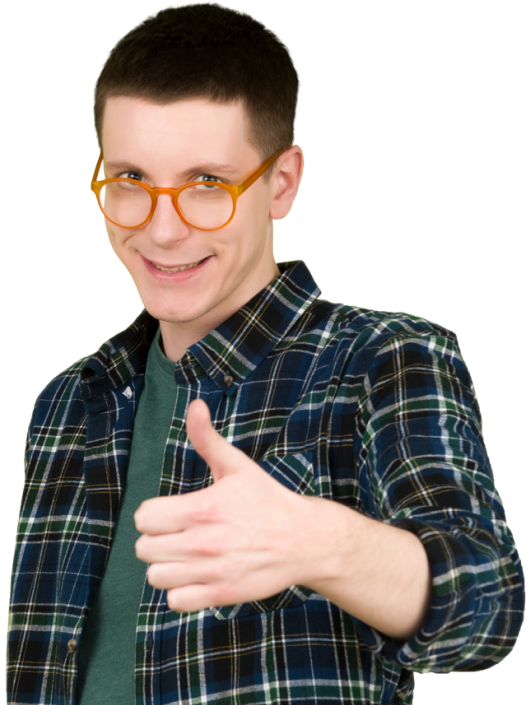
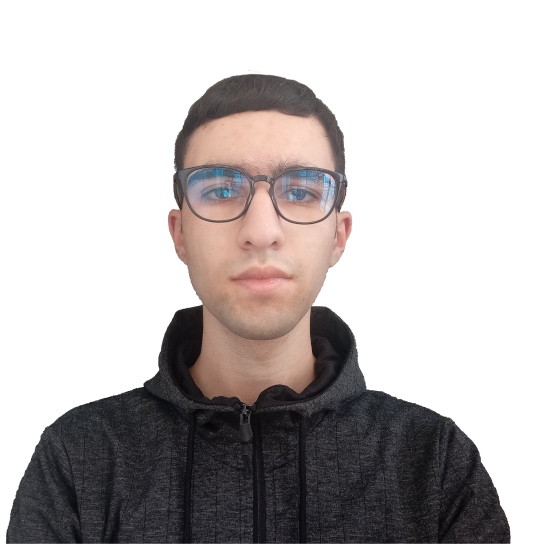
add my photo

diff --git a/public/assets/css/tailwind.min.css b/public/assets/css/tailwind.min.css
@@ -1,3 +1,3 @@
 @font-face{font-family:Inter;font-style:normal;font-weight:400;font-display:swap;src:url(../fonts/inter-v8-latin-regular.eot);src:local(""),url(../fonts/inter-v8-latin-regular.eot?#iefix) format("embedded-opentype"),url(../fonts/inter-v8-latin-regular.woff2) format("woff2"),url(../fonts/inter-v8-latin-regular.woff) format("woff"),url(../fonts/inter-v8-latin-regular.ttf) format("truetype"),url(../fonts/inter-v8-latin-regular.svg#Inter) format("svg")}@font-face{font-family:Inter;font-style:normal;font-weight:700;font-display:swap;src:url(../fonts/inter-v8-latin-700.eot);src:local(""),url(../fonts/inter-v8-latin-700.eot?#iefix) format("embedded-opentype"),url(../fonts/inter-v8-latin-700.woff2) format("woff2"),url(../fonts/inter-v8-latin-700.woff) format("woff"),url(../fonts/inter-v8-latin-700.ttf) format("truetype"),url(../fonts/inter-v8-latin-700.svg#Inter) format("svg")}
 
-/*! tailwindcss v3.0.24 | MIT License | https://tailwindcss.com*/*,:after,:before{box-sizing:border-box;border:0 solid #e5e7eb}:after,:before{--tw-content:""}html{line-height:1.5;-webkit-text-size-adjust:100%;-moz-tab-size:4;-o-tab-size:4;tab-size:4;font-family:ui-sans-serif,system-ui,-apple-system,BlinkMacSystemFont,Segoe UI,Roboto,Helvetica Neue,Arial,Noto Sans,sans-serif,Apple Color Emoji,Segoe UI Emoji,Segoe UI Symbol,Noto Color Emoji}body{margin:0;line-height:inherit}hr{height:0;color:inherit;border-top-width:1px}abbr:where([title]){-webkit-text-decoration:underline dotted;text-decoration:underline dotted}h1,h2,h3,h4,h5,h6{font-size:inherit;font-weight:inherit}a{color:inherit;text-decoration:inherit}b,strong{font-weight:bolder}code,kbd,pre,samp{font-family:ui-monospace,SFMono-Regular,Menlo,Monaco,Consolas,Liberation Mono,Courier New,monospace;font-size:1em}small{font-size:80%}sub,sup{font-size:75%;line-height:0;position:relative;vertical-align:initial}sub{bottom:-.25em}sup{top:-.5em}table{text-indent:0;border-color:inherit;border-collapse:collapse}button,input,optgroup,select,textarea{font-family:inherit;font-size:100%;line-height:inherit;color:inherit;margin:0;padding:0}button,select{text-transform:none}[type=button],[type=reset],[type=submit],button{-webkit-appearance:button;background-color:initial;background-image:none}:-moz-focusring{outline:auto}:-moz-ui-invalid{box-shadow:none}progress{vertical-align:initial}::-webkit-inner-spin-button,::-webkit-outer-spin-button{height:auto}[type=search]{-webkit-appearance:textfield;outline-offset:-2px}::-webkit-search-decoration{-webkit-appearance:none}::-webkit-file-upload-button{-webkit-appearance:button;font:inherit}summary{display:list-item}blockquote,dd,dl,figure,h1,h2,h3,h4,h5,h6,hr,p,pre{margin:0}fieldset{margin:0}fieldset,legend{padding:0}menu,ol,ul{list-style:none;margin:0;padding:0}textarea{resize:vertical}input::-moz-placeholder,textarea::-moz-placeholder{opacity:1;color:#9ca3af}input:-ms-input-placeholder,textarea:-ms-input-placeholder{opacity:1;color:#9ca3af}input::placeholder,textarea::placeholder{opacity:1;color:#9ca3af}[role=button],button{cursor:pointer}:disabled{cursor:default}audio,canvas,embed,iframe,img,object,svg,video{display:block;vertical-align:middle}img,video{max-width:100%;height:auto}[hidden]{display:none}*,:after,:before{--tw-translate-x:0;--tw-translate-y:0;--tw-rotate:0;--tw-skew-x:0;--tw-skew-y:0;--tw-scale-x:1;--tw-scale-y:1;--tw-pan-x: ;--tw-pan-y: ;--tw-pinch-zoom: ;--tw-scroll-snap-strictness:proximity;--tw-ordinal: ;--tw-slashed-zero: ;--tw-numeric-figure: ;--tw-numeric-spacing: ;--tw-numeric-fraction: ;--tw-ring-inset: ;--tw-ring-offset-width:0px;--tw-ring-offset-color:#fff;--tw-ring-color:#3b82f680;--tw-ring-offset-shadow:0 0 #0000;--tw-ring-shadow:0 0 #0000;--tw-shadow:0 0 #0000;--tw-shadow-colored:0 0 #0000;--tw-blur: ;--tw-brightness: ;--tw-contrast: ;--tw-grayscale: ;--tw-hue-rotate: ;--tw-invert: ;--tw-saturate: ;--tw-sepia: ;--tw-drop-shadow: ;--tw-backdrop-blur: ;--tw-backdrop-brightness: ;--tw-backdrop-contrast: ;--tw-backdrop-grayscale: ;--tw-backdrop-hue-rotate: ;--tw-backdrop-invert: ;--tw-backdrop-opacity: ;--tw-backdrop-saturate: ;--tw-backdrop-sepia: }.absolute{position:absolute}.relative{position:relative}.top-0{top:0}.left-0{left:0}.-top-16{top:-4rem}.left-1\/2{left:50%}.top-1\/2{top:50%}.bottom-0{bottom:0}.-left-64{left:-16rem}.-bottom-32{bottom:-8rem}.right-0{right:0}.bottom-\[10\%\]{bottom:10%}.left-8{left:2rem}.bottom-\[35\%\]{bottom:35%}.right-8{right:2rem}.-top-8{top:-2rem}.-left-16{left:-4rem}.top-28{top:7rem}.-bottom-8{bottom:-2rem}.bottom-16{bottom:4rem}.z-\[-1\]{z-index:-1}.z-0{z-index:0}.z-10{z-index:10}.z-30{z-index:30}.order-1{order:1}.order-3{order:3}.order-2{order:2}.mx-auto{margin-left:auto;margin-right:auto}.ml-6{margin-left:1.5rem}.mt-5{margin-top:1.25rem}.mr-6{margin-right:1.5rem}.mt-8{margin-top:2rem}.mt-16{margin-top:4rem}.mt-6{margin-top:1.5rem}.mt-12{margin-top:3rem}.mt-32{margin-top:8rem}.mt-1{margin-top:.25rem}.mt-4{margin-top:1rem}.mb-0{margin-bottom:0}.mt-2{margin-top:.5rem}.mt-3{margin-top:.75rem}.block{display:block}.inline{display:inline}.flex{display:flex}.grid{display:grid}.hidden{display:none}.h-\[32rem\]{height:32rem}.h-10{height:2.5rem}.h-0\.5{height:.125rem}.h-0{height:0}.h-\[40rem\]{height:40rem}.h-80{height:20rem}.h-\[22rem\]{height:22rem}.h-14{height:3.5rem}.h-auto{height:auto}.h-\[28rem\]{height:28rem}.h-4\/5{height:80%}.h-full{height:100%}.w-full{width:100%}.w-10{width:2.5rem}.w-5{width:1.25rem}.w-6{width:1.5rem}.w-44{width:11rem}.w-\[40rem\]{width:40rem}.w-80{width:20rem}.w-fit{width:-webkit-fit-content;width:-moz-fit-content;width:fit-content}.w-56{width:14rem}.w-14{width:3.5rem}.w-28{width:7rem}.w-\[90\%\]{width:90%}.max-w-\[78rem\]{max-width:78rem}.max-w-sm{max-width:24rem}.max-w-lg{max-width:32rem}.max-w-\[30rem\]{max-width:30rem}.max-w-\[28rem\],.max-w-md{max-width:28rem}.max-w-5xl{max-width:64rem}.-translate-x-1\/2{--tw-translate-x:-50%}.-translate-x-1\/2,.-translate-y-1\/2{transform:translate(var(--tw-translate-x),var(--tw-translate-y)) rotate(var(--tw-rotate)) skewX(var(--tw-skew-x)) skewY(var(--tw-skew-y)) scaleX(var(--tw-scale-x)) scaleY(var(--tw-scale-y))}.-translate-y-1\/2{--tw-translate-y:-50%}.transform{transform:translate(var(--tw-translate-x),var(--tw-translate-y)) rotate(var(--tw-rotate)) skewX(var(--tw-skew-x)) skewY(var(--tw-skew-y)) scaleX(var(--tw-scale-x)) scaleY(var(--tw-scale-y))}.cursor-pointer{cursor:pointer}.resize-none{resize:none}.grid-cols-1{grid-template-columns:repeat(1,minmax(0,1fr))}.grid-rows-3{grid-template-rows:repeat(3,minmax(0,1fr))}.flex-col{flex-direction:column}.flex-wrap{flex-wrap:wrap}.items-center{align-items:center}.justify-start{justify-content:flex-start}.justify-center{justify-content:center}.justify-between{justify-content:space-between}.justify-around{justify-content:space-around}.space-y-16>:not([hidden])~:not([hidden]){--tw-space-y-reverse:0;margin-top:calc(4rem*(1 - var(--tw-space-y-reverse)));margin-bottom:calc(4rem*var(--tw-space-y-reverse))}.space-y-6>:not([hidden])~:not([hidden]){--tw-space-y-reverse:0;margin-top:calc(1.5rem*(1 - var(--tw-space-y-reverse)));margin-bottom:calc(1.5rem*var(--tw-space-y-reverse))}.space-x-6>:not([hidden])~:not([hidden]){--tw-space-x-reverse:0;margin-right:calc(1.5rem*var(--tw-space-x-reverse));margin-left:calc(1.5rem*(1 - var(--tw-space-x-reverse)))}.space-x-16>:not([hidden])~:not([hidden]){--tw-space-x-reverse:0;margin-right:calc(4rem*var(--tw-space-x-reverse));margin-left:calc(4rem*(1 - var(--tw-space-x-reverse)))}.space-y-4>:not([hidden])~:not([hidden]){--tw-space-y-reverse:0;margin-top:calc(1rem*(1 - var(--tw-space-y-reverse)));margin-bottom:calc(1rem*var(--tw-space-y-reverse))}.space-y-8>:not([hidden])~:not([hidden]){--tw-space-y-reverse:0;margin-top:calc(2rem*(1 - var(--tw-space-y-reverse)));margin-bottom:calc(2rem*var(--tw-space-y-reverse))}.space-y-10>:not([hidden])~:not([hidden]){--tw-space-y-reverse:0;margin-top:calc(2.5rem*(1 - var(--tw-space-y-reverse)));margin-bottom:calc(2.5rem*var(--tw-space-y-reverse))}.overflow-hidden{overflow:hidden}.overflow-y-hidden{overflow-y:hidden}.rounded-full{border-radius:9999px}.rounded-2xl{border-radius:1rem}.rounded-xl{border-radius:.75rem}.rounded-3xl{border-radius:1.5rem}.rounded-r-\[400px\]{border-top-right-radius:400px;border-bottom-right-radius:400px}.rounded-br-full{border-bottom-right-radius:9999px}.border-2{border-width:2px}.border-8{border-width:8px}.border{border-width:1px}.border-t{border-top-width:1px}.border-b{border-bottom-width:1px}.border-black\/20{border-color:#04040433}.border-transparent{border-color:#0000}.border-alto{--tw-border-opacity:1;border-color:rgb(206 206 206/var(--tw-border-opacity))}.border-b-alto\/50{border-bottom-color:#cecece80}.border-t-black\/20{border-top-color:#04040433}.bg-electric-violet{--tw-bg-opacity:1;background-color:rgb(131 75 255/var(--tw-bg-opacity))}.bg-transparent{background-color:initial}.bg-white{--tw-bg-opacity:1;background-color:rgb(255 255 255/var(--tw-bg-opacity))}.bg-concrete{--tw-bg-opacity:1;background-color:rgb(242 242 242/var(--tw-bg-opacity))}.bg-\[\#F9FBFC\]{--tw-bg-opacity:1;background-color:rgb(249 251 252/var(--tw-bg-opacity))}.bg-black-squeeze{--tw-bg-opacity:1;background-color:rgb(248 251 252/var(--tw-bg-opacity))}.bg-clip-padding{background-clip:padding-box}.py-4{padding-top:1rem;padding-bottom:1rem}.py-5{padding-top:1.25rem;padding-bottom:1.25rem}.py-3{padding-top:.75rem;padding-bottom:.75rem}.py-16{padding-top:4rem;padding-bottom:4rem}.px-6{padding-left:1.5rem;padding-right:1.5rem}.px-8{padding-left:2rem;padding-right:2rem}.py-12{padding-top:3rem;padding-bottom:3rem}.py-1{padding-top:.25rem;padding-bottom:.25rem}.px-4{padding-left:1rem;padding-right:1rem}.pb-16{padding-bottom:4rem}.pt-16{padding-top:4rem}.pt-12{padding-top:3rem}.text-center{text-align:center}.font-inter{font-family:Inter,sans-serif}.text-\[15px\]{font-size:15px}.text-2xl{font-size:1.5rem;line-height:2rem}.text-lg{font-size:1.125rem;line-height:1.75rem}.text-5xl{font-size:3rem;line-height:1}.text-xl{font-size:1.25rem;line-height:1.75rem}.text-sm{font-size:.875rem;line-height:1.25rem}.text-4xl{font-size:2.25rem;line-height:2.5rem}.text-base{font-size:1rem;line-height:1.5rem}.text-xs{font-size:.75rem;line-height:1rem}.text-\[0\.6rem\]{font-size:.6rem}.text-3xl{font-size:1.875rem;line-height:2.25rem}.text-8xl{font-size:6rem;line-height:1}.font-bold{font-weight:700}.leading-tight{line-height:1.25}.\!leading-relaxed{line-height:1.625!important}.tracking-wider{letter-spacing:.05em}.text-black{--tw-text-opacity:1;color:rgb(4 4 4/var(--tw-text-opacity))}.text-electric-violet{--tw-text-opacity:1;color:rgb(131 75 255/var(--tw-text-opacity))}.text-emperor{--tw-text-opacity:1;color:rgb(79 79 79/var(--tw-text-opacity))}.text-gray-500{--tw-text-opacity:1;color:rgb(107 114 128/var(--tw-text-opacity))}.text-white{--tw-text-opacity:1;color:rgb(255 255 255/var(--tw-text-opacity))}.underline{-webkit-text-decoration-line:underline;text-decoration-line:underline}.\!opacity-30{opacity:.3!important}.opacity-60{opacity:.6}.\!opacity-40{opacity:.4!important}.outline-none{outline:2px solid #0000;outline-offset:2px}.blur-\[138px\]{--tw-blur:blur(138px)}.blur-\[100px\],.blur-\[138px\]{filter:var(--tw-blur) var(--tw-brightness) var(--tw-contrast) var(--tw-grayscale) var(--tw-hue-rotate) var(--tw-invert) var(--tw-saturate) var(--tw-sepia) var(--tw-drop-shadow)}.blur-\[100px\]{--tw-blur:blur(100px)}.blur-\[80px\]{--tw-blur:blur(80px)}.blur,.blur-\[80px\]{filter:var(--tw-blur) var(--tw-brightness) var(--tw-contrast) var(--tw-grayscale) var(--tw-hue-rotate) var(--tw-invert) var(--tw-saturate) var(--tw-sepia) var(--tw-drop-shadow)}.blur{--tw-blur:blur(8px)}.filter{filter:var(--tw-blur) var(--tw-brightness) var(--tw-contrast) var(--tw-grayscale) var(--tw-hue-rotate) var(--tw-invert) var(--tw-saturate) var(--tw-sepia) var(--tw-drop-shadow)}.transition{transition-property:color,background-color,border-color,fill,stroke,opacity,box-shadow,transform,filter,-webkit-text-decoration-color,-webkit-backdrop-filter;transition-property:color,background-color,border-color,text-decoration-color,fill,stroke,opacity,box-shadow,transform,filter,backdrop-filter;transition-property:color,background-color,border-color,text-decoration-color,fill,stroke,opacity,box-shadow,transform,filter,backdrop-filter,-webkit-text-decoration-color,-webkit-backdrop-filter;transition-timing-function:cubic-bezier(.4,0,.2,1);transition-duration:.15s}.duration-500{transition-duration:.5s}.ease-in-out{transition-timing-function:cubic-bezier(.4,0,.2,1)}.top-line{transform:translateY(-.42rem)}.bottom-line{transform:translateY(.42rem)}.open .top-line{transform:rotate(45deg)}.open .middle-line{opacity:0}.open .bottom-line{transform:rotate(-45deg)}@media (max-width:640px){.open #nav-links{display:block}}@-moz-document url-prefix(){.blur-\[100px\],.blur-\[138px\]{opacity:.5}.blur-\[250px\]{display:none}}.lgd-01{background:linear-gradient(73.6deg,#cccaf9 -7.76%,#becbff 114.36%)}.grid-gap-8{grid-gap:2rem}@media (min-width:768px) and (max-width:1400px) and (max-height:900px){html{font-size:12px!important}}@media (max-width:768px) and (max-height:724px){html{font-size:14px!important}}@media (max-width:768px) and (max-height:609px){html{font-size:12px!important}}.placeholder\:text-lg::-moz-placeholder{font-size:1.125rem;line-height:1.75rem}.placeholder\:text-lg:-ms-input-placeholder{font-size:1.125rem;line-height:1.75rem}.placeholder\:text-lg::placeholder{font-size:1.125rem;line-height:1.75rem}.before\:absolute:before{content:var(--tw-content);position:absolute}.before\:inset-0:before{content:var(--tw-content);top:0;right:0;bottom:0;left:0}.before\:z-\[-1\]:before{content:var(--tw-content);z-index:-1}.before\:-m-2:before{content:var(--tw-content);margin:-.5rem}.before\:rounded-full:before{content:var(--tw-content);border-radius:9999px}.before\:bg-whitetro:before{content:var(--tw-content);background-image:linear-gradient(180deg,#fff,#fff0)}.after\:rounded-full:after{content:var(--tw-content);border-radius:9999px}.after\:content-\[\'\'\]:after{--tw-content:"";content:var(--tw-content)}.hover\:bg-purple-heart:hover{--tw-bg-opacity:1;background-color:rgb(98 56 191/var(--tw-bg-opacity))}.hover\:text-electric-violet:hover{--tw-text-opacity:1;color:rgb(131 75 255/var(--tw-text-opacity))}.hover\:underline:hover{-webkit-text-decoration-line:underline;text-decoration-line:underline}.focus\:border-b-electric-violet:focus{--tw-border-opacity:1;border-bottom-color:rgb(131 75 255/var(--tw-border-opacity))}.focus\:outline-none:focus{outline:2px solid #0000;outline-offset:2px}.active\:border-\[\#A981FF\]:active{--tw-border-opacity:1;border-color:rgb(169 129 255/var(--tw-border-opacity))}.active\:bg-purple-heart:active{--tw-bg-opacity:1;background-color:rgb(98 56 191/var(--tw-bg-opacity))}.group:hover .group-hover\:block{display:block}.group:hover .group-hover\:text-electric-violet{--tw-text-opacity:1;color:rgb(131 75 255/var(--tw-text-opacity))}.group:hover .group-hover\:blur-sm{--tw-blur:blur(4px);filter:var(--tw-blur) var(--tw-brightness) var(--tw-contrast) var(--tw-grayscale) var(--tw-hue-rotate) var(--tw-invert) var(--tw-saturate) var(--tw-sepia) var(--tw-drop-shadow)}.open .open\:bg-white{--tw-bg-opacity:1;background-color:rgb(255 255 255/var(--tw-bg-opacity))}.open .open\:shadow-lg{--tw-shadow:0 10px 15px -3px #0000001a,0 4px 6px -4px #0000001a;--tw-shadow-colored:0 10px 15px -3px var(--tw-shadow-color),0 4px 6px -4px var(--tw-shadow-color);box-shadow:var(--tw-ring-offset-shadow,0 0 #0000),var(--tw-ring-shadow,0 0 #0000),var(--tw-shadow)}.open .open\:shadow-concrete{--tw-shadow-color:#f2f2f2;--tw-shadow:var(--tw-shadow-colored)}@media (min-width:640px){.sm\:mt-auto{margin-top:auto}.sm\:mr-6{margin-right:1.5rem}.sm\:block{display:block}.sm\:flex{display:flex}.sm\:hidden{display:none}.sm\:w-auto{width:auto}.sm\:flex-row{flex-direction:row}.sm\:flex-nowrap{flex-wrap:nowrap}.sm\:justify-between{justify-content:space-between}.sm\:space-x-8>:not([hidden])~:not([hidden]){--tw-space-x-reverse:0;margin-right:calc(2rem*var(--tw-space-x-reverse));margin-left:calc(2rem*(1 - var(--tw-space-x-reverse)))}.sm\:space-y-0>:not([hidden])~:not([hidden]){--tw-space-y-reverse:0;margin-top:calc(0px*(1 - var(--tw-space-y-reverse)));margin-bottom:calc(0px*var(--tw-space-y-reverse))}.sm\:space-x-6>:not([hidden])~:not([hidden]){--tw-space-x-reverse:0;margin-right:calc(1.5rem*var(--tw-space-x-reverse));margin-left:calc(1.5rem*(1 - var(--tw-space-x-reverse)))}.sm\:space-x-4>:not([hidden])~:not([hidden]){--tw-space-x-reverse:0;margin-right:calc(1rem*var(--tw-space-x-reverse));margin-left:calc(1rem*(1 - var(--tw-space-x-reverse)))}.sm\:border-none{border-style:none}.sm\:\!bg-transparent{background-color:initial!important}.sm\:py-3{padding-top:.75rem;padding-bottom:.75rem}.sm\:px-8{padding-left:2rem;padding-right:2rem}.sm\:text-left{text-align:left}.sm\:text-lg{font-size:1.125rem;line-height:1.75rem}.sm\:text-sm{font-size:.875rem;line-height:1.25rem}.sm\:text-2xl{font-size:1.5rem;line-height:2rem}.sm\:\!shadow-none{--tw-shadow:0 0 #0000!important;--tw-shadow-colored:0 0 #0000!important;box-shadow:var(--tw-ring-offset-shadow,0 0 #0000),var(--tw-ring-shadow,0 0 #0000),var(--tw-shadow)!important}.sm\:after\:absolute:after{content:var(--tw-content);position:absolute}.sm\:after\:left-1\/2:after{content:var(--tw-content);left:50%}.sm\:after\:-bottom-3:after{content:var(--tw-content);bottom:-.75rem}.sm\:after\:block:after{content:var(--tw-content);display:block}.sm\:after\:h-2:after{content:var(--tw-content);height:.5rem}.sm\:after\:w-2:after{content:var(--tw-content);width:.5rem}.sm\:after\:-translate-x-1\/2:after{content:var(--tw-content);--tw-translate-x:-50%;transform:translate(var(--tw-translate-x),var(--tw-translate-y)) rotate(var(--tw-rotate)) skewX(var(--tw-skew-x)) skewY(var(--tw-skew-y)) scaleX(var(--tw-scale-x)) scaleY(var(--tw-scale-y))}.sm\:after\:bg-electric-violet:after{content:var(--tw-content);--tw-bg-opacity:1;background-color:rgb(131 75 255/var(--tw-bg-opacity))}.sm\:hover\:after\:absolute:hover:after{content:var(--tw-content);position:absolute}.sm\:hover\:after\:left-1\/2:hover:after{content:var(--tw-content);left:50%}.sm\:hover\:after\:-bottom-3:hover:after{content:var(--tw-content);bottom:-.75rem}.sm\:hover\:after\:block:hover:after{content:var(--tw-content);display:block}.sm\:hover\:after\:h-2:hover:after{content:var(--tw-content);height:.5rem}.sm\:hover\:after\:w-2:hover:after{content:var(--tw-content);width:.5rem}.sm\:hover\:after\:-translate-x-1\/2:hover:after{content:var(--tw-content);--tw-translate-x:-50%;transform:translate(var(--tw-translate-x),var(--tw-translate-y)) rotate(var(--tw-rotate)) skewX(var(--tw-skew-x)) skewY(var(--tw-skew-y)) scaleX(var(--tw-scale-x)) scaleY(var(--tw-scale-y))}.sm\:hover\:after\:bg-electric-violet:hover:after{content:var(--tw-content);--tw-bg-opacity:1;background-color:rgb(131 75 255/var(--tw-bg-opacity))}}@media (min-width:768px){.md\:top-0{top:0}.md\:-top-28{top:-7rem}.md\:top-32{top:8rem}.md\:bottom-16{bottom:4rem}.md\:col-span-2{grid-column:span 2/span 2}.md\:row-start-2{grid-row-start:2}.md\:mt-16{margin-top:4rem}.md\:mt-32{margin-top:8rem}.md\:mt-auto{margin-top:auto}.md\:mt-0{margin-top:0}.md\:mt-12{margin-top:3rem}.md\:mt-36{margin-top:9rem}.md\:inline{display:inline}.md\:h-\[40rem\]{height:40rem}.md\:h-96{height:24rem}.md\:h-\[26rem\]{height:26rem}.md\:w-72{width:18rem}.md\:w-1\/3{width:33.333333%}.md\:w-2\/3{width:66.666667%}.md\:w-auto{width:auto}.md\:w-1\/2{width:50%}.md\:grid-cols-2{grid-template-columns:repeat(2,minmax(0,1fr))}.md\:grid-rows-2{grid-template-rows:repeat(2,minmax(0,1fr))}.md\:flex-row{flex-direction:row}.md\:items-center{align-items:center}.md\:space-y-0>:not([hidden])~:not([hidden]){--tw-space-y-reverse:0;margin-top:calc(0px*(1 - var(--tw-space-y-reverse)));margin-bottom:calc(0px*var(--tw-space-y-reverse))}.md\:space-x-16>:not([hidden])~:not([hidden]){--tw-space-x-reverse:0;margin-right:calc(4rem*var(--tw-space-x-reverse));margin-left:calc(4rem*(1 - var(--tw-space-x-reverse)))}.md\:space-x-6>:not([hidden])~:not([hidden]){--tw-space-x-reverse:0;margin-right:calc(1.5rem*var(--tw-space-x-reverse));margin-left:calc(1.5rem*(1 - var(--tw-space-x-reverse)))}.md\:space-x-8>:not([hidden])~:not([hidden]){--tw-space-x-reverse:0;margin-right:calc(2rem*var(--tw-space-x-reverse));margin-left:calc(2rem*(1 - var(--tw-space-x-reverse)))}.md\:space-y-16>:not([hidden])~:not([hidden]){--tw-space-y-reverse:0;margin-top:calc(4rem*(1 - var(--tw-space-y-reverse)));margin-bottom:calc(4rem*var(--tw-space-y-reverse))}.md\:border-b-2{border-bottom-width:2px}.md\:px-24{padding-left:6rem;padding-right:6rem}.md\:py-14{padding-top:3.5rem;padding-bottom:3.5rem}.md\:py-32{padding-top:8rem}.md\:pb-32,.md\:py-32{padding-bottom:8rem}.md\:pt-28{padding-top:7rem}.md\:pt-20{padding-top:5rem}.md\:text-\[16px\]{font-size:16px}.md\:text-7xl{font-size:4.5rem;line-height:1}.md\:text-xl{font-size:1.25rem;line-height:1.75rem}.md\:text-4xl{font-size:2.25rem;line-height:2.5rem}.md\:text-3xl{font-size:1.875rem;line-height:2.25rem}.md\:text-5xl{font-size:3rem}.md\:text-5xl,.md\:text-6xl{line-height:1}.md\:text-6xl{font-size:3.75rem}.md\:opacity-100{opacity:1}.md\:\!opacity-50{opacity:.5!important}}@media (min-width:1024px){.lg\:absolute{position:absolute}.lg\:right-0{right:0}.lg\:left-28{left:7rem}.lg\:right-28{right:7rem}.lg\:col-span-1{grid-column:span 1/span 1}.lg\:col-start-3{grid-column-start:3}.lg\:row-start-1{grid-row-start:1}.lg\:block{display:block}.lg\:h-\[30rem\]{height:30rem}.lg\:h-\[35rem\]{height:35rem}.lg\:w-\[66\%\]{width:66%}.lg\:w-3\/5{width:60%}.lg\:w-96{width:24rem}.lg\:grid-cols-3{grid-template-columns:repeat(3,minmax(0,1fr))}.lg\:grid-rows-1{grid-template-rows:repeat(1,minmax(0,1fr))}.lg\:\!overflow-y-clip{overflow-y:clip!important}.lg\:py-4{padding-top:1rem;padding-bottom:1rem}.lg\:pt-32{padding-top:8rem}.lg\:pb-44{padding-bottom:11rem}.lg\:text-base{font-size:1rem;line-height:1.5rem}.lg\:text-6xl{font-size:3.75rem;line-height:1}.lg\:opacity-70{opacity:.7}.lg\:overflow-initial{overflow-y:initial}}@media (min-width:1280px){.xl\:block{display:block}.xl\:hidden{display:none}}
+/*! tailwindcss v3.0.24 | MIT License | https://tailwindcss.com*/*,:after,:before{box-sizing:border-box;border:0 solid #e5e7eb}:after,:before{--tw-content:""}html{line-height:1.5;-webkit-text-size-adjust:100%;-moz-tab-size:4;-o-tab-size:4;tab-size:4;font-family:ui-sans-serif,system-ui,-apple-system,BlinkMacSystemFont,Segoe UI,Roboto,Helvetica Neue,Arial,Noto Sans,sans-serif,Apple Color Emoji,Segoe UI Emoji,Segoe UI Symbol,Noto Color Emoji}body{margin:0;line-height:inherit}hr{height:0;color:inherit;border-top-width:1px}abbr:where([title]){-webkit-text-decoration:underline dotted;text-decoration:underline dotted}h1,h2,h3,h4,h5,h6{font-size:inherit;font-weight:inherit}a{color:inherit;text-decoration:inherit}b,strong{font-weight:bolder}code,kbd,pre,samp{font-family:ui-monospace,SFMono-Regular,Menlo,Monaco,Consolas,Liberation Mono,Courier New,monospace;font-size:1em}small{font-size:80%}sub,sup{font-size:75%;line-height:0;position:relative;vertical-align:initial}sub{bottom:-.25em}sup{top:-.5em}table{text-indent:0;border-color:inherit;border-collapse:collapse}button,input,optgroup,select,textarea{font-family:inherit;font-size:100%;line-height:inherit;color:inherit;margin:0;padding:0}button,select{text-transform:none}[type=button],[type=reset],[type=submit],button{-webkit-appearance:button;background-color:initial;background-image:none}:-moz-focusring{outline:auto}:-moz-ui-invalid{box-shadow:none}progress{vertical-align:initial}::-webkit-inner-spin-button,::-webkit-outer-spin-button{height:auto}[type=search]{-webkit-appearance:textfield;outline-offset:-2px}::-webkit-search-decoration{-webkit-appearance:none}::-webkit-file-upload-button{-webkit-appearance:button;font:inherit}summary{display:list-item}blockquote,dd,dl,figure,h1,h2,h3,h4,h5,h6,hr,p,pre{margin:0}fieldset{margin:0}fieldset,legend{padding:0}menu,ol,ul{list-style:none;margin:0;padding:0}textarea{resize:vertical}input::-moz-placeholder,textarea::-moz-placeholder{opacity:1;color:#9ca3af}input:-ms-input-placeholder,textarea:-ms-input-placeholder{opacity:1;color:#9ca3af}input::placeholder,textarea::placeholder{opacity:1;color:#9ca3af}[role=button],button{cursor:pointer}:disabled{cursor:default}audio,canvas,embed,iframe,img,object,svg,video{display:block;vertical-align:middle}img,video{max-width:100%;height:auto}[hidden]{display:none}*,:after,:before{--tw-translate-x:0;--tw-translate-y:0;--tw-rotate:0;--tw-skew-x:0;--tw-skew-y:0;--tw-scale-x:1;--tw-scale-y:1;--tw-pan-x: ;--tw-pan-y: ;--tw-pinch-zoom: ;--tw-scroll-snap-strictness:proximity;--tw-ordinal: ;--tw-slashed-zero: ;--tw-numeric-figure: ;--tw-numeric-spacing: ;--tw-numeric-fraction: ;--tw-ring-inset: ;--tw-ring-offset-width:0px;--tw-ring-offset-color:#fff;--tw-ring-color:#3b82f680;--tw-ring-offset-shadow:0 0 #0000;--tw-ring-shadow:0 0 #0000;--tw-shadow:0 0 #0000;--tw-shadow-colored:0 0 #0000;--tw-blur: ;--tw-brightness: ;--tw-contrast: ;--tw-grayscale: ;--tw-hue-rotate: ;--tw-invert: ;--tw-saturate: ;--tw-sepia: ;--tw-drop-shadow: ;--tw-backdrop-blur: ;--tw-backdrop-brightness: ;--tw-backdrop-contrast: ;--tw-backdrop-grayscale: ;--tw-backdrop-hue-rotate: ;--tw-backdrop-invert: ;--tw-backdrop-opacity: ;--tw-backdrop-saturate: ;--tw-backdrop-sepia: }.absolute{position:absolute}.relative{position:relative}.top-0{top:0}.left-0{left:0}.-top-16{top:-4rem}.left-1\/2{left:50%}.top-1\/2{top:50%}.bottom-0{bottom:0}.-left-64{left:-16rem}.-bottom-32{bottom:-8rem}.right-0{right:0}.bottom-\[8\%\]{bottom:8%}.left-8{left:2rem}.bottom-\[30\%\]{bottom:30%}.right-8{right:2rem}.-top-8{top:-2rem}.-left-16{left:-4rem}.top-28{top:7rem}.-bottom-8{bottom:-2rem}.bottom-16{bottom:4rem}.z-\[-1\]{z-index:-1}.z-0{z-index:0}.z-10{z-index:10}.z-30{z-index:30}.order-1{order:1}.order-3{order:3}.order-2{order:2}.mx-auto{margin-left:auto;margin-right:auto}.ml-6{margin-left:1.5rem}.mt-5{margin-top:1.25rem}.mr-6{margin-right:1.5rem}.mt-8{margin-top:2rem}.mt-16{margin-top:4rem}.mt-6{margin-top:1.5rem}.mt-12{margin-top:3rem}.mt-32{margin-top:8rem}.mt-1{margin-top:.25rem}.mt-4{margin-top:1rem}.mb-0{margin-bottom:0}.mt-2{margin-top:.5rem}.mt-3{margin-top:.75rem}.block{display:block}.inline{display:inline}.flex{display:flex}.grid{display:grid}.hidden{display:none}.h-\[32rem\]{height:32rem}.h-10{height:2.5rem}.h-0\.5{height:.125rem}.h-0{height:0}.h-\[40rem\]{height:40rem}.h-80{height:20rem}.h-\[22rem\]{height:22rem}.h-14{height:3.5rem}.h-auto{height:auto}.h-\[28rem\]{height:28rem}.h-4\/5{height:80%}.h-full{height:100%}.w-full{width:100%}.w-10{width:2.5rem}.w-5{width:1.25rem}.w-6{width:1.5rem}.w-44{width:11rem}.w-\[40rem\]{width:40rem}.w-80{width:20rem}.w-fit{width:-webkit-fit-content;width:-moz-fit-content;width:fit-content}.w-14{width:3.5rem}.w-28{width:7rem}.w-\[90\%\]{width:90%}.max-w-\[78rem\]{max-width:78rem}.max-w-sm{max-width:24rem}.max-w-lg{max-width:32rem}.max-w-\[30rem\]{max-width:30rem}.max-w-\[28rem\],.max-w-md{max-width:28rem}.max-w-5xl{max-width:64rem}.-translate-x-1\/2{--tw-translate-x:-50%}.-translate-x-1\/2,.-translate-y-1\/2{transform:translate(var(--tw-translate-x),var(--tw-translate-y)) rotate(var(--tw-rotate)) skewX(var(--tw-skew-x)) skewY(var(--tw-skew-y)) scaleX(var(--tw-scale-x)) scaleY(var(--tw-scale-y))}.-translate-y-1\/2{--tw-translate-y:-50%}.transform{transform:translate(var(--tw-translate-x),var(--tw-translate-y)) rotate(var(--tw-rotate)) skewX(var(--tw-skew-x)) skewY(var(--tw-skew-y)) scaleX(var(--tw-scale-x)) scaleY(var(--tw-scale-y))}.cursor-pointer{cursor:pointer}.resize-none{resize:none}.grid-cols-1{grid-template-columns:repeat(1,minmax(0,1fr))}.grid-rows-3{grid-template-rows:repeat(3,minmax(0,1fr))}.flex-col{flex-direction:column}.flex-wrap{flex-wrap:wrap}.items-center{align-items:center}.justify-start{justify-content:flex-start}.justify-center{justify-content:center}.justify-between{justify-content:space-between}.justify-around{justify-content:space-around}.space-y-16>:not([hidden])~:not([hidden]){--tw-space-y-reverse:0;margin-top:calc(4rem*(1 - var(--tw-space-y-reverse)));margin-bottom:calc(4rem*var(--tw-space-y-reverse))}.space-y-6>:not([hidden])~:not([hidden]){--tw-space-y-reverse:0;margin-top:calc(1.5rem*(1 - var(--tw-space-y-reverse)));margin-bottom:calc(1.5rem*var(--tw-space-y-reverse))}.space-x-6>:not([hidden])~:not([hidden]){--tw-space-x-reverse:0;margin-right:calc(1.5rem*var(--tw-space-x-reverse));margin-left:calc(1.5rem*(1 - var(--tw-space-x-reverse)))}.space-x-16>:not([hidden])~:not([hidden]){--tw-space-x-reverse:0;margin-right:calc(4rem*var(--tw-space-x-reverse));margin-left:calc(4rem*(1 - var(--tw-space-x-reverse)))}.space-y-4>:not([hidden])~:not([hidden]){--tw-space-y-reverse:0;margin-top:calc(1rem*(1 - var(--tw-space-y-reverse)));margin-bottom:calc(1rem*var(--tw-space-y-reverse))}.space-y-8>:not([hidden])~:not([hidden]){--tw-space-y-reverse:0;margin-top:calc(2rem*(1 - var(--tw-space-y-reverse)));margin-bottom:calc(2rem*var(--tw-space-y-reverse))}.space-y-10>:not([hidden])~:not([hidden]){--tw-space-y-reverse:0;margin-top:calc(2.5rem*(1 - var(--tw-space-y-reverse)));margin-bottom:calc(2.5rem*var(--tw-space-y-reverse))}.overflow-hidden{overflow:hidden}.overflow-y-hidden{overflow-y:hidden}.rounded-full{border-radius:9999px}.rounded-2xl{border-radius:1rem}.rounded-xl{border-radius:.75rem}.rounded-3xl{border-radius:1.5rem}.rounded-r-\[400px\]{border-top-right-radius:400px;border-bottom-right-radius:400px}.rounded-br-full{border-bottom-right-radius:9999px}.border-2{border-width:2px}.border-8{border-width:8px}.border{border-width:1px}.border-t{border-top-width:1px}.border-b{border-bottom-width:1px}.border-black\/20{border-color:#04040433}.border-transparent{border-color:#0000}.border-alto{--tw-border-opacity:1;border-color:rgb(206 206 206/var(--tw-border-opacity))}.border-b-alto\/50{border-bottom-color:#cecece80}.border-t-black\/20{border-top-color:#04040433}.bg-electric-violet{--tw-bg-opacity:1;background-color:rgb(131 75 255/var(--tw-bg-opacity))}.bg-transparent{background-color:initial}.bg-white{--tw-bg-opacity:1;background-color:rgb(255 255 255/var(--tw-bg-opacity))}.bg-concrete{--tw-bg-opacity:1;background-color:rgb(242 242 242/var(--tw-bg-opacity))}.bg-\[\#F9FBFC\]{--tw-bg-opacity:1;background-color:rgb(249 251 252/var(--tw-bg-opacity))}.bg-black-squeeze{--tw-bg-opacity:1;background-color:rgb(248 251 252/var(--tw-bg-opacity))}.bg-clip-padding{background-clip:padding-box}.py-4{padding-top:1rem;padding-bottom:1rem}.py-5{padding-top:1.25rem;padding-bottom:1.25rem}.py-3{padding-top:.75rem;padding-bottom:.75rem}.py-16{padding-top:4rem;padding-bottom:4rem}.px-6{padding-left:1.5rem;padding-right:1.5rem}.px-8{padding-left:2rem;padding-right:2rem}.py-12{padding-top:3rem;padding-bottom:3rem}.py-1{padding-top:.25rem;padding-bottom:.25rem}.px-4{padding-left:1rem;padding-right:1rem}.pb-16{padding-bottom:4rem}.pt-16{padding-top:4rem}.pt-12{padding-top:3rem}.text-center{text-align:center}.font-inter{font-family:Inter,sans-serif}.text-\[15px\]{font-size:15px}.text-2xl{font-size:1.5rem;line-height:2rem}.text-lg{font-size:1.125rem;line-height:1.75rem}.text-5xl{font-size:3rem;line-height:1}.text-xl{font-size:1.25rem;line-height:1.75rem}.text-sm{font-size:.875rem;line-height:1.25rem}.text-4xl{font-size:2.25rem;line-height:2.5rem}.text-base{font-size:1rem;line-height:1.5rem}.text-xs{font-size:.75rem;line-height:1rem}.text-\[0\.6rem\]{font-size:.6rem}.text-3xl{font-size:1.875rem;line-height:2.25rem}.text-8xl{font-size:6rem;line-height:1}.font-bold{font-weight:700}.leading-tight{line-height:1.25}.\!leading-relaxed{line-height:1.625!important}.tracking-wider{letter-spacing:.05em}.text-black{--tw-text-opacity:1;color:rgb(4 4 4/var(--tw-text-opacity))}.text-electric-violet{--tw-text-opacity:1;color:rgb(131 75 255/var(--tw-text-opacity))}.text-emperor{--tw-text-opacity:1;color:rgb(79 79 79/var(--tw-text-opacity))}.text-gray-500{--tw-text-opacity:1;color:rgb(107 114 128/var(--tw-text-opacity))}.text-white{--tw-text-opacity:1;color:rgb(255 255 255/var(--tw-text-opacity))}.underline{-webkit-text-decoration-line:underline;text-decoration-line:underline}.\!opacity-30{opacity:.3!important}.opacity-60{opacity:.6}.\!opacity-40{opacity:.4!important}.outline-none{outline:2px solid #0000;outline-offset:2px}.blur-\[138px\]{--tw-blur:blur(138px)}.blur-\[100px\],.blur-\[138px\]{filter:var(--tw-blur) var(--tw-brightness) var(--tw-contrast) var(--tw-grayscale) var(--tw-hue-rotate) var(--tw-invert) var(--tw-saturate) var(--tw-sepia) var(--tw-drop-shadow)}.blur-\[100px\]{--tw-blur:blur(100px)}.blur-\[80px\]{--tw-blur:blur(80px)}.blur,.blur-\[80px\]{filter:var(--tw-blur) var(--tw-brightness) var(--tw-contrast) var(--tw-grayscale) var(--tw-hue-rotate) var(--tw-invert) var(--tw-saturate) var(--tw-sepia) var(--tw-drop-shadow)}.blur{--tw-blur:blur(8px)}.filter{filter:var(--tw-blur) var(--tw-brightness) var(--tw-contrast) var(--tw-grayscale) var(--tw-hue-rotate) var(--tw-invert) var(--tw-saturate) var(--tw-sepia) var(--tw-drop-shadow)}.transition{transition-property:color,background-color,border-color,fill,stroke,opacity,box-shadow,transform,filter,-webkit-text-decoration-color,-webkit-backdrop-filter;transition-property:color,background-color,border-color,text-decoration-color,fill,stroke,opacity,box-shadow,transform,filter,backdrop-filter;transition-property:color,background-color,border-color,text-decoration-color,fill,stroke,opacity,box-shadow,transform,filter,backdrop-filter,-webkit-text-decoration-color,-webkit-backdrop-filter;transition-timing-function:cubic-bezier(.4,0,.2,1);transition-duration:.15s}.duration-500{transition-duration:.5s}.ease-in-out{transition-timing-function:cubic-bezier(.4,0,.2,1)}.top-line{transform:translateY(-.42rem)}.bottom-line{transform:translateY(.42rem)}.open .top-line{transform:rotate(45deg)}.open .middle-line{opacity:0}.open .bottom-line{transform:rotate(-45deg)}@media (max-width:640px){.open #nav-links{display:block}}@-moz-document url-prefix(){.blur-\[100px\],.blur-\[138px\]{opacity:.5}.blur-\[250px\]{display:none}}.lgd-01{background:linear-gradient(73.6deg,#cccaf9 -7.76%,#becbff 114.36%)}.grid-gap-8{grid-gap:2rem}@media (min-width:768px) and (max-width:1400px) and (max-height:900px){html{font-size:12px!important}}@media (max-width:768px) and (max-height:724px){html{font-size:14px!important}}@media (max-width:768px) and (max-height:609px){html{font-size:12px!important}}.placeholder\:text-lg::-moz-placeholder{font-size:1.125rem;line-height:1.75rem}.placeholder\:text-lg:-ms-input-placeholder{font-size:1.125rem;line-height:1.75rem}.placeholder\:text-lg::placeholder{font-size:1.125rem;line-height:1.75rem}.before\:absolute:before{content:var(--tw-content);position:absolute}.before\:inset-0:before{content:var(--tw-content);top:0;right:0;bottom:0;left:0}.before\:z-\[-1\]:before{content:var(--tw-content);z-index:-1}.before\:-m-2:before{content:var(--tw-content);margin:-.5rem}.before\:rounded-full:before{content:var(--tw-content);border-radius:9999px}.before\:bg-whitetro:before{content:var(--tw-content);background-image:linear-gradient(180deg,#fff,#fff0)}.after\:rounded-full:after{content:var(--tw-content);border-radius:9999px}.after\:content-\[\'\'\]:after{--tw-content:"";content:var(--tw-content)}.hover\:bg-purple-heart:hover{--tw-bg-opacity:1;background-color:rgb(98 56 191/var(--tw-bg-opacity))}.hover\:text-electric-violet:hover{--tw-text-opacity:1;color:rgb(131 75 255/var(--tw-text-opacity))}.hover\:underline:hover{-webkit-text-decoration-line:underline;text-decoration-line:underline}.focus\:border-b-electric-violet:focus{--tw-border-opacity:1;border-bottom-color:rgb(131 75 255/var(--tw-border-opacity))}.focus\:outline-none:focus{outline:2px solid #0000;outline-offset:2px}.active\:border-\[\#A981FF\]:active{--tw-border-opacity:1;border-color:rgb(169 129 255/var(--tw-border-opacity))}.active\:bg-purple-heart:active{--tw-bg-opacity:1;background-color:rgb(98 56 191/var(--tw-bg-opacity))}.group:hover .group-hover\:block{display:block}.group:hover .group-hover\:text-electric-violet{--tw-text-opacity:1;color:rgb(131 75 255/var(--tw-text-opacity))}.group:hover .group-hover\:blur-sm{--tw-blur:blur(4px);filter:var(--tw-blur) var(--tw-brightness) var(--tw-contrast) var(--tw-grayscale) var(--tw-hue-rotate) var(--tw-invert) var(--tw-saturate) var(--tw-sepia) var(--tw-drop-shadow)}.open .open\:bg-white{--tw-bg-opacity:1;background-color:rgb(255 255 255/var(--tw-bg-opacity))}.open .open\:shadow-lg{--tw-shadow:0 10px 15px -3px #0000001a,0 4px 6px -4px #0000001a;--tw-shadow-colored:0 10px 15px -3px var(--tw-shadow-color),0 4px 6px -4px var(--tw-shadow-color);box-shadow:var(--tw-ring-offset-shadow,0 0 #0000),var(--tw-ring-shadow,0 0 #0000),var(--tw-shadow)}.open .open\:shadow-concrete{--tw-shadow-color:#f2f2f2;--tw-shadow:var(--tw-shadow-colored)}@media (min-width:640px){.sm\:mt-auto{margin-top:auto}.sm\:mr-6{margin-right:1.5rem}.sm\:block{display:block}.sm\:flex{display:flex}.sm\:hidden{display:none}.sm\:w-auto{width:auto}.sm\:flex-row{flex-direction:row}.sm\:flex-nowrap{flex-wrap:nowrap}.sm\:justify-between{justify-content:space-between}.sm\:space-x-8>:not([hidden])~:not([hidden]){--tw-space-x-reverse:0;margin-right:calc(2rem*var(--tw-space-x-reverse));margin-left:calc(2rem*(1 - var(--tw-space-x-reverse)))}.sm\:space-y-0>:not([hidden])~:not([hidden]){--tw-space-y-reverse:0;margin-top:calc(0px*(1 - var(--tw-space-y-reverse)));margin-bottom:calc(0px*var(--tw-space-y-reverse))}.sm\:space-x-6>:not([hidden])~:not([hidden]){--tw-space-x-reverse:0;margin-right:calc(1.5rem*var(--tw-space-x-reverse));margin-left:calc(1.5rem*(1 - var(--tw-space-x-reverse)))}.sm\:space-x-4>:not([hidden])~:not([hidden]){--tw-space-x-reverse:0;margin-right:calc(1rem*var(--tw-space-x-reverse));margin-left:calc(1rem*(1 - var(--tw-space-x-reverse)))}.sm\:border-none{border-style:none}.sm\:\!bg-transparent{background-color:initial!important}.sm\:py-3{padding-top:.75rem;padding-bottom:.75rem}.sm\:px-8{padding-left:2rem;padding-right:2rem}.sm\:text-left{text-align:left}.sm\:text-lg{font-size:1.125rem;line-height:1.75rem}.sm\:text-sm{font-size:.875rem;line-height:1.25rem}.sm\:text-2xl{font-size:1.5rem;line-height:2rem}.sm\:\!shadow-none{--tw-shadow:0 0 #0000!important;--tw-shadow-colored:0 0 #0000!important;box-shadow:var(--tw-ring-offset-shadow,0 0 #0000),var(--tw-ring-shadow,0 0 #0000),var(--tw-shadow)!important}.sm\:after\:absolute:after{content:var(--tw-content);position:absolute}.sm\:after\:left-1\/2:after{content:var(--tw-content);left:50%}.sm\:after\:-bottom-3:after{content:var(--tw-content);bottom:-.75rem}.sm\:after\:block:after{content:var(--tw-content);display:block}.sm\:after\:h-2:after{content:var(--tw-content);height:.5rem}.sm\:after\:w-2:after{content:var(--tw-content);width:.5rem}.sm\:after\:-translate-x-1\/2:after{content:var(--tw-content);--tw-translate-x:-50%;transform:translate(var(--tw-translate-x),var(--tw-translate-y)) rotate(var(--tw-rotate)) skewX(var(--tw-skew-x)) skewY(var(--tw-skew-y)) scaleX(var(--tw-scale-x)) scaleY(var(--tw-scale-y))}.sm\:after\:bg-electric-violet:after{content:var(--tw-content);--tw-bg-opacity:1;background-color:rgb(131 75 255/var(--tw-bg-opacity))}.sm\:hover\:after\:absolute:hover:after{content:var(--tw-content);position:absolute}.sm\:hover\:after\:left-1\/2:hover:after{content:var(--tw-content);left:50%}.sm\:hover\:after\:-bottom-3:hover:after{content:var(--tw-content);bottom:-.75rem}.sm\:hover\:after\:block:hover:after{content:var(--tw-content);display:block}.sm\:hover\:after\:h-2:hover:after{content:var(--tw-content);height:.5rem}.sm\:hover\:after\:w-2:hover:after{content:var(--tw-content);width:.5rem}.sm\:hover\:after\:-translate-x-1\/2:hover:after{content:var(--tw-content);--tw-translate-x:-50%;transform:translate(var(--tw-translate-x),var(--tw-translate-y)) rotate(var(--tw-rotate)) skewX(var(--tw-skew-x)) skewY(var(--tw-skew-y)) scaleX(var(--tw-scale-x)) scaleY(var(--tw-scale-y))}.sm\:hover\:after\:bg-electric-violet:hover:after{content:var(--tw-content);--tw-bg-opacity:1;background-color:rgb(131 75 255/var(--tw-bg-opacity))}}@media (min-width:768px){.md\:top-0{top:0}.md\:-top-28{top:-7rem}.md\:top-32{top:8rem}.md\:bottom-16{bottom:4rem}.md\:col-span-2{grid-column:span 2/span 2}.md\:row-start-2{grid-row-start:2}.md\:mt-16{margin-top:4rem}.md\:mt-32{margin-top:8rem}.md\:mt-auto{margin-top:auto}.md\:mt-0{margin-top:0}.md\:mt-12{margin-top:3rem}.md\:mt-36{margin-top:9rem}.md\:inline{display:inline}.md\:h-\[40rem\]{height:40rem}.md\:h-96{height:24rem}.md\:h-\[26rem\]{height:26rem}.md\:w-96{width:24rem}.md\:w-1\/3{width:33.333333%}.md\:w-2\/3{width:66.666667%}.md\:w-auto{width:auto}.md\:w-1\/2{width:50%}.md\:grid-cols-2{grid-template-columns:repeat(2,minmax(0,1fr))}.md\:grid-rows-2{grid-template-rows:repeat(2,minmax(0,1fr))}.md\:flex-row{flex-direction:row}.md\:items-center{align-items:center}.md\:space-y-0>:not([hidden])~:not([hidden]){--tw-space-y-reverse:0;margin-top:calc(0px*(1 - var(--tw-space-y-reverse)));margin-bottom:calc(0px*var(--tw-space-y-reverse))}.md\:space-x-16>:not([hidden])~:not([hidden]){--tw-space-x-reverse:0;margin-right:calc(4rem*var(--tw-space-x-reverse));margin-left:calc(4rem*(1 - var(--tw-space-x-reverse)))}.md\:space-x-6>:not([hidden])~:not([hidden]){--tw-space-x-reverse:0;margin-right:calc(1.5rem*var(--tw-space-x-reverse));margin-left:calc(1.5rem*(1 - var(--tw-space-x-reverse)))}.md\:space-x-8>:not([hidden])~:not([hidden]){--tw-space-x-reverse:0;margin-right:calc(2rem*var(--tw-space-x-reverse));margin-left:calc(2rem*(1 - var(--tw-space-x-reverse)))}.md\:space-y-16>:not([hidden])~:not([hidden]){--tw-space-y-reverse:0;margin-top:calc(4rem*(1 - var(--tw-space-y-reverse)));margin-bottom:calc(4rem*var(--tw-space-y-reverse))}.md\:border-b-2{border-bottom-width:2px}.md\:px-24{padding-left:6rem;padding-right:6rem}.md\:py-14{padding-top:3.5rem;padding-bottom:3.5rem}.md\:py-32{padding-top:8rem}.md\:pb-32,.md\:py-32{padding-bottom:8rem}.md\:pt-28{padding-top:7rem}.md\:pt-20{padding-top:5rem}.md\:text-\[16px\]{font-size:16px}.md\:text-7xl{font-size:4.5rem;line-height:1}.md\:text-xl{font-size:1.25rem;line-height:1.75rem}.md\:text-4xl{font-size:2.25rem;line-height:2.5rem}.md\:text-3xl{font-size:1.875rem;line-height:2.25rem}.md\:text-5xl{font-size:3rem}.md\:text-5xl,.md\:text-6xl{line-height:1}.md\:text-6xl{font-size:3.75rem}.md\:opacity-100{opacity:1}.md\:\!opacity-50{opacity:.5!important}}@media (min-width:1024px){.lg\:absolute{position:absolute}.lg\:right-0{right:0}.lg\:left-20{left:5rem}.lg\:right-28{right:7rem}.lg\:col-span-1{grid-column:span 1/span 1}.lg\:col-start-3{grid-column-start:3}.lg\:row-start-1{grid-row-start:1}.lg\:block{display:block}.lg\:h-\[30rem\]{height:30rem}.lg\:h-\[35rem\]{height:35rem}.lg\:w-\[66\%\]{width:66%}.lg\:w-3\/5{width:60%}.lg\:w-\[34rem\]{width:34rem}.lg\:grid-cols-3{grid-template-columns:repeat(3,minmax(0,1fr))}.lg\:grid-rows-1{grid-template-rows:repeat(1,minmax(0,1fr))}.lg\:\!overflow-y-clip{overflow-y:clip!important}.lg\:py-4{padding-top:1rem;padding-bottom:1rem}.lg\:pt-32{padding-top:8rem}.lg\:pb-44{padding-bottom:11rem}.lg\:text-base{font-size:1rem;line-height:1.5rem}.lg\:text-6xl{font-size:3.75rem;line-height:1}.lg\:opacity-70{opacity:.7}.lg\:overflow-initial{overflow-y:initial}}@media (min-width:1280px){.xl\:block{display:block}.xl\:hidden{display:none}}

diff --git a/public/index.html b/public/index.html
@@ -81,14 +81,14 @@
                         <circle cx="597.5" cy="3.5" r="3.5" fill="#834BFF" fill-opacity="0.4" />
                     </svg>
 
-                    <img class="absolute bottom-0 left-1/2 -translate-x-1/2 w-56 md:w-72 lg:w-96" src="./assets/images/pic.png" width="450" height="603.13" alt="" />
+                    <img class="absolute bottom-0 left-1/2 -translate-x-1/2 w-80 md:w-96 lg:w-[34rem]" src="./assets/images/pic.png" width="544" height="544" alt="" />
 
-                    <div class="text-center absolute bottom-[10%] left-8 lg:left-28 bg-white rounded-full py-1 sm:py-3 lg:py-4 px-4 sm:px-8 border-8 border-transparent before:-m-2 before:rounded-full before:absolute before:inset-0 z-0 before:z-[-1] before:bg-whitetro bg-clip-padding">
+                    <div class="text-center absolute bottom-[8%] left-8 lg:left-20 bg-white rounded-full py-1 sm:py-3 lg:py-4 px-4 sm:px-8 border-8 border-transparent before:-m-2 before:rounded-full before:absolute before:inset-0 z-0 before:z-[-1] before:bg-whitetro bg-clip-padding">
                         <div class="font-bold text-xs sm:text-sm lg:text-base">Web Developer</div>
                         <div class="text-[0.6rem] sm:text-sm text-electric-violet mt-1">4 Years</div>
                     </div>
 
-                    <div class="text-center absolute bottom-[35%] right-8 lg:right-28 bg-white rounded-full py-1 sm:py-3 lg:py-4 px-4 sm:px-8 border-8 border-transparent before:-m-2 before:rounded-full before:absolute before:inset-0 z-0 before:z-[-1] before:bg-whitetro bg-clip-padding">
+                    <div class="text-center absolute bottom-[30%] right-8 lg:right-28 bg-white rounded-full py-1 sm:py-3 lg:py-4 px-4 sm:px-8 border-8 border-transparent before:-m-2 before:rounded-full before:absolute before:inset-0 z-0 before:z-[-1] before:bg-whitetro bg-clip-padding">
                         <div class="font-bold text-xs sm:text-sm lg:text-base">Mobile Developer</div>
                         <div class="text-[0.6rem] sm:text-sm text-electric-violet mt-1">2 Years</div>
                     </div>
@@ -139,7 +139,7 @@
                             <path d="M20.5 36.8V20" stroke="black" stroke-width="3" stroke-linecap="round" stroke-linejoin="round" />
                         </svg>
                     </div>
-                    <h3 class="mt-8 font-bold text-xl sm:text-2xl">Computer Engineer</h3>
+                    <h3 class="mt-8 font-bold text-xl sm:text-2xl">CS Student</h3>
                     <p class="mt-6">Final year computer science student at ESI-SBA, Algeria.</p>
                 </div>
 
